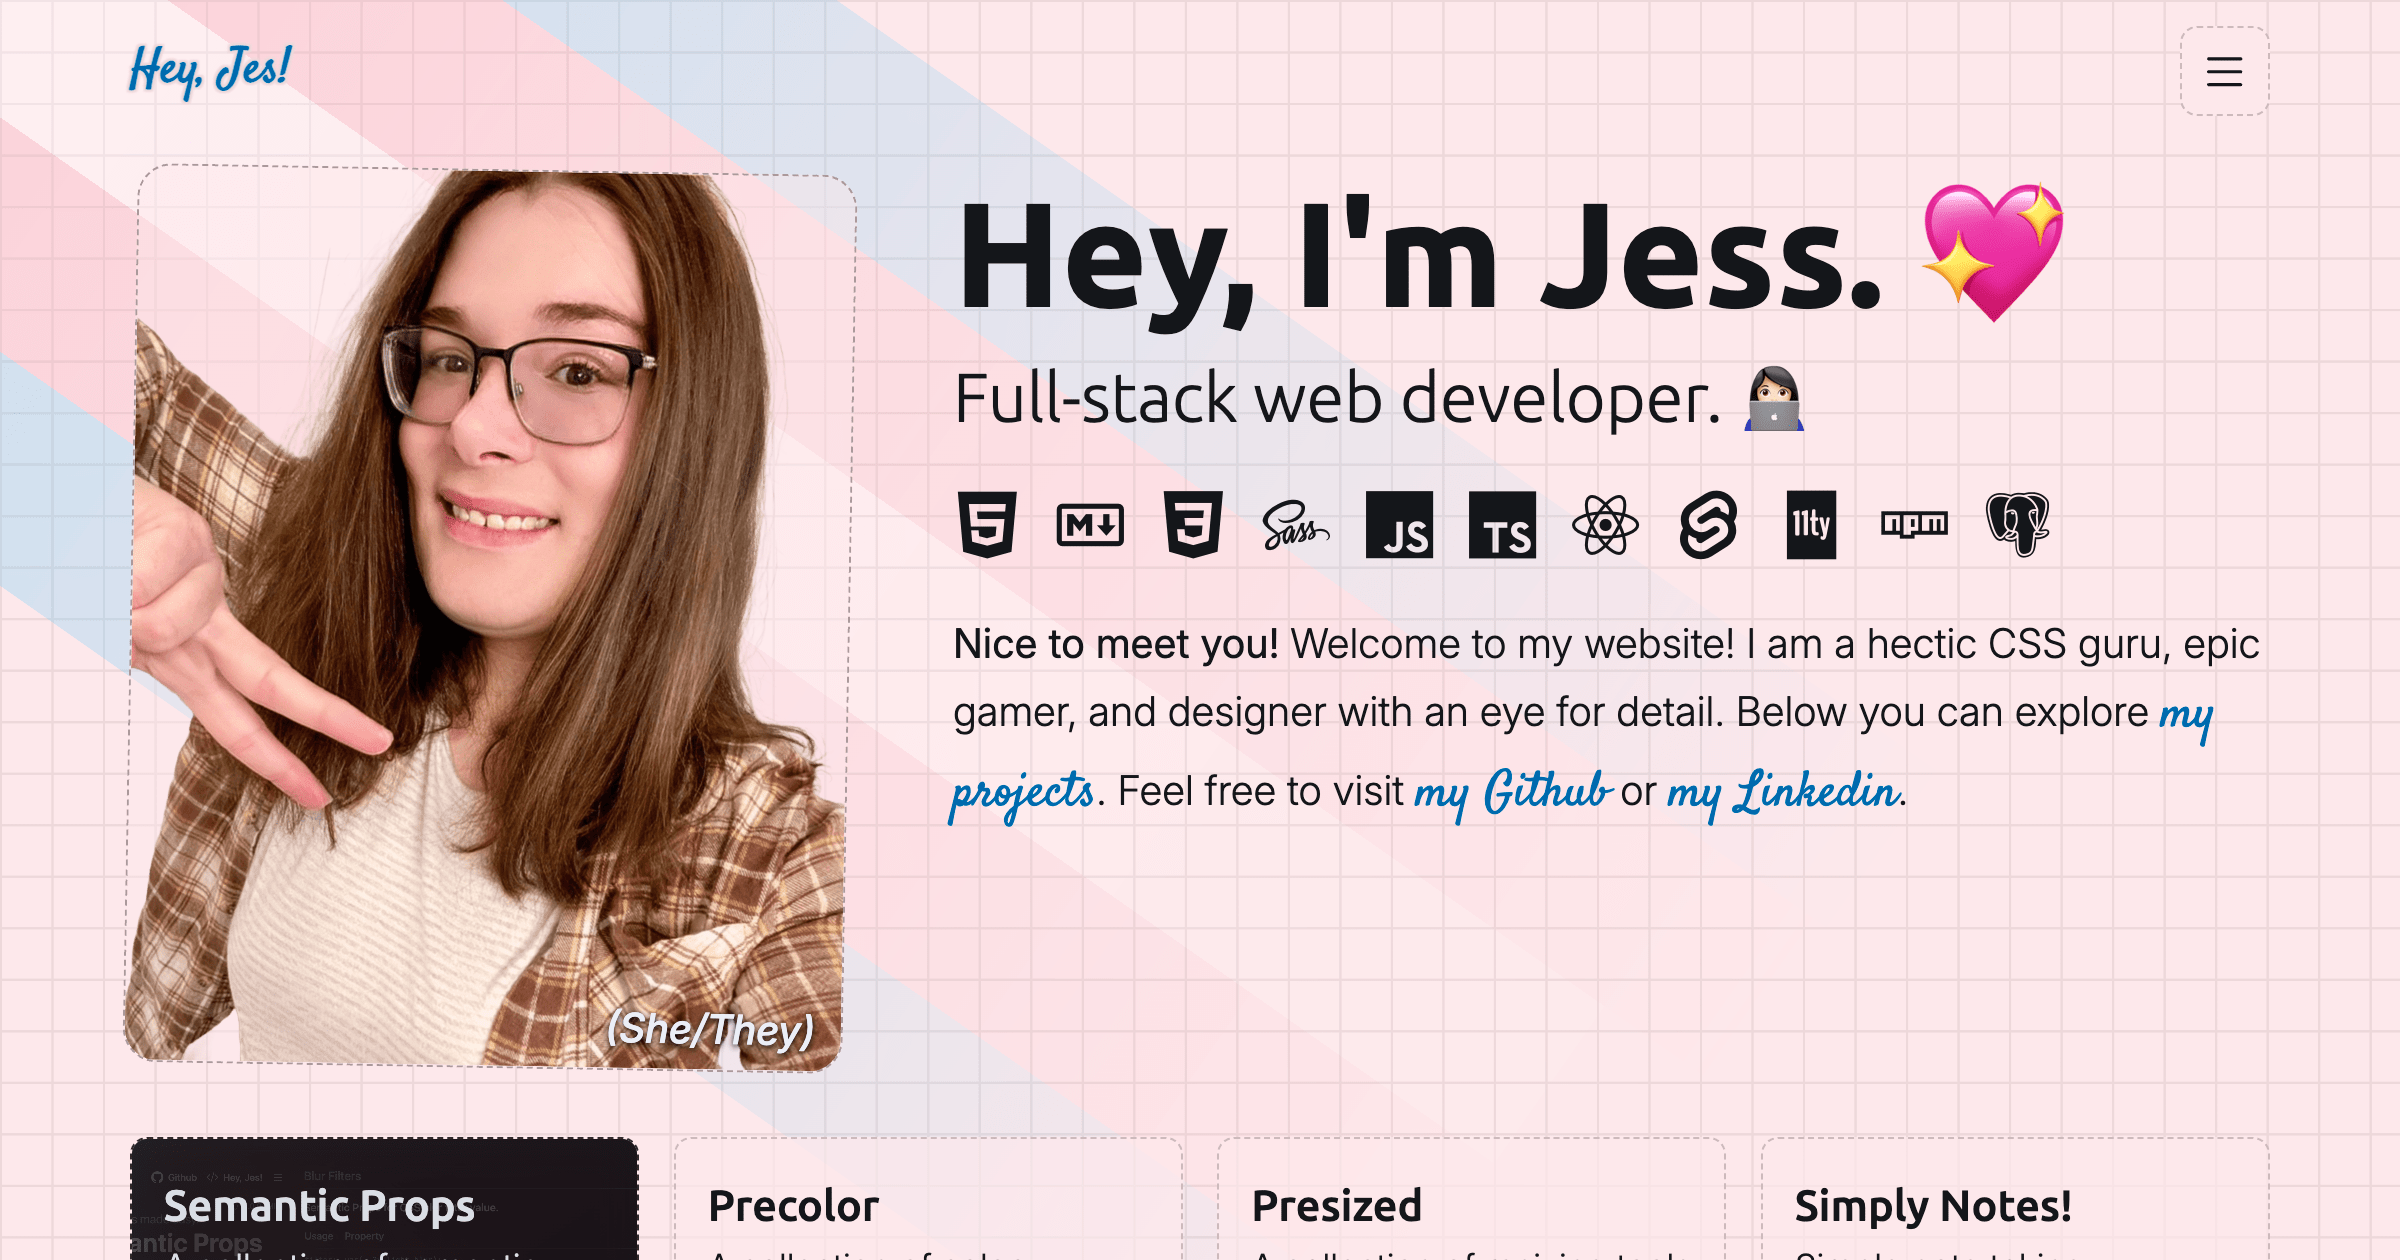
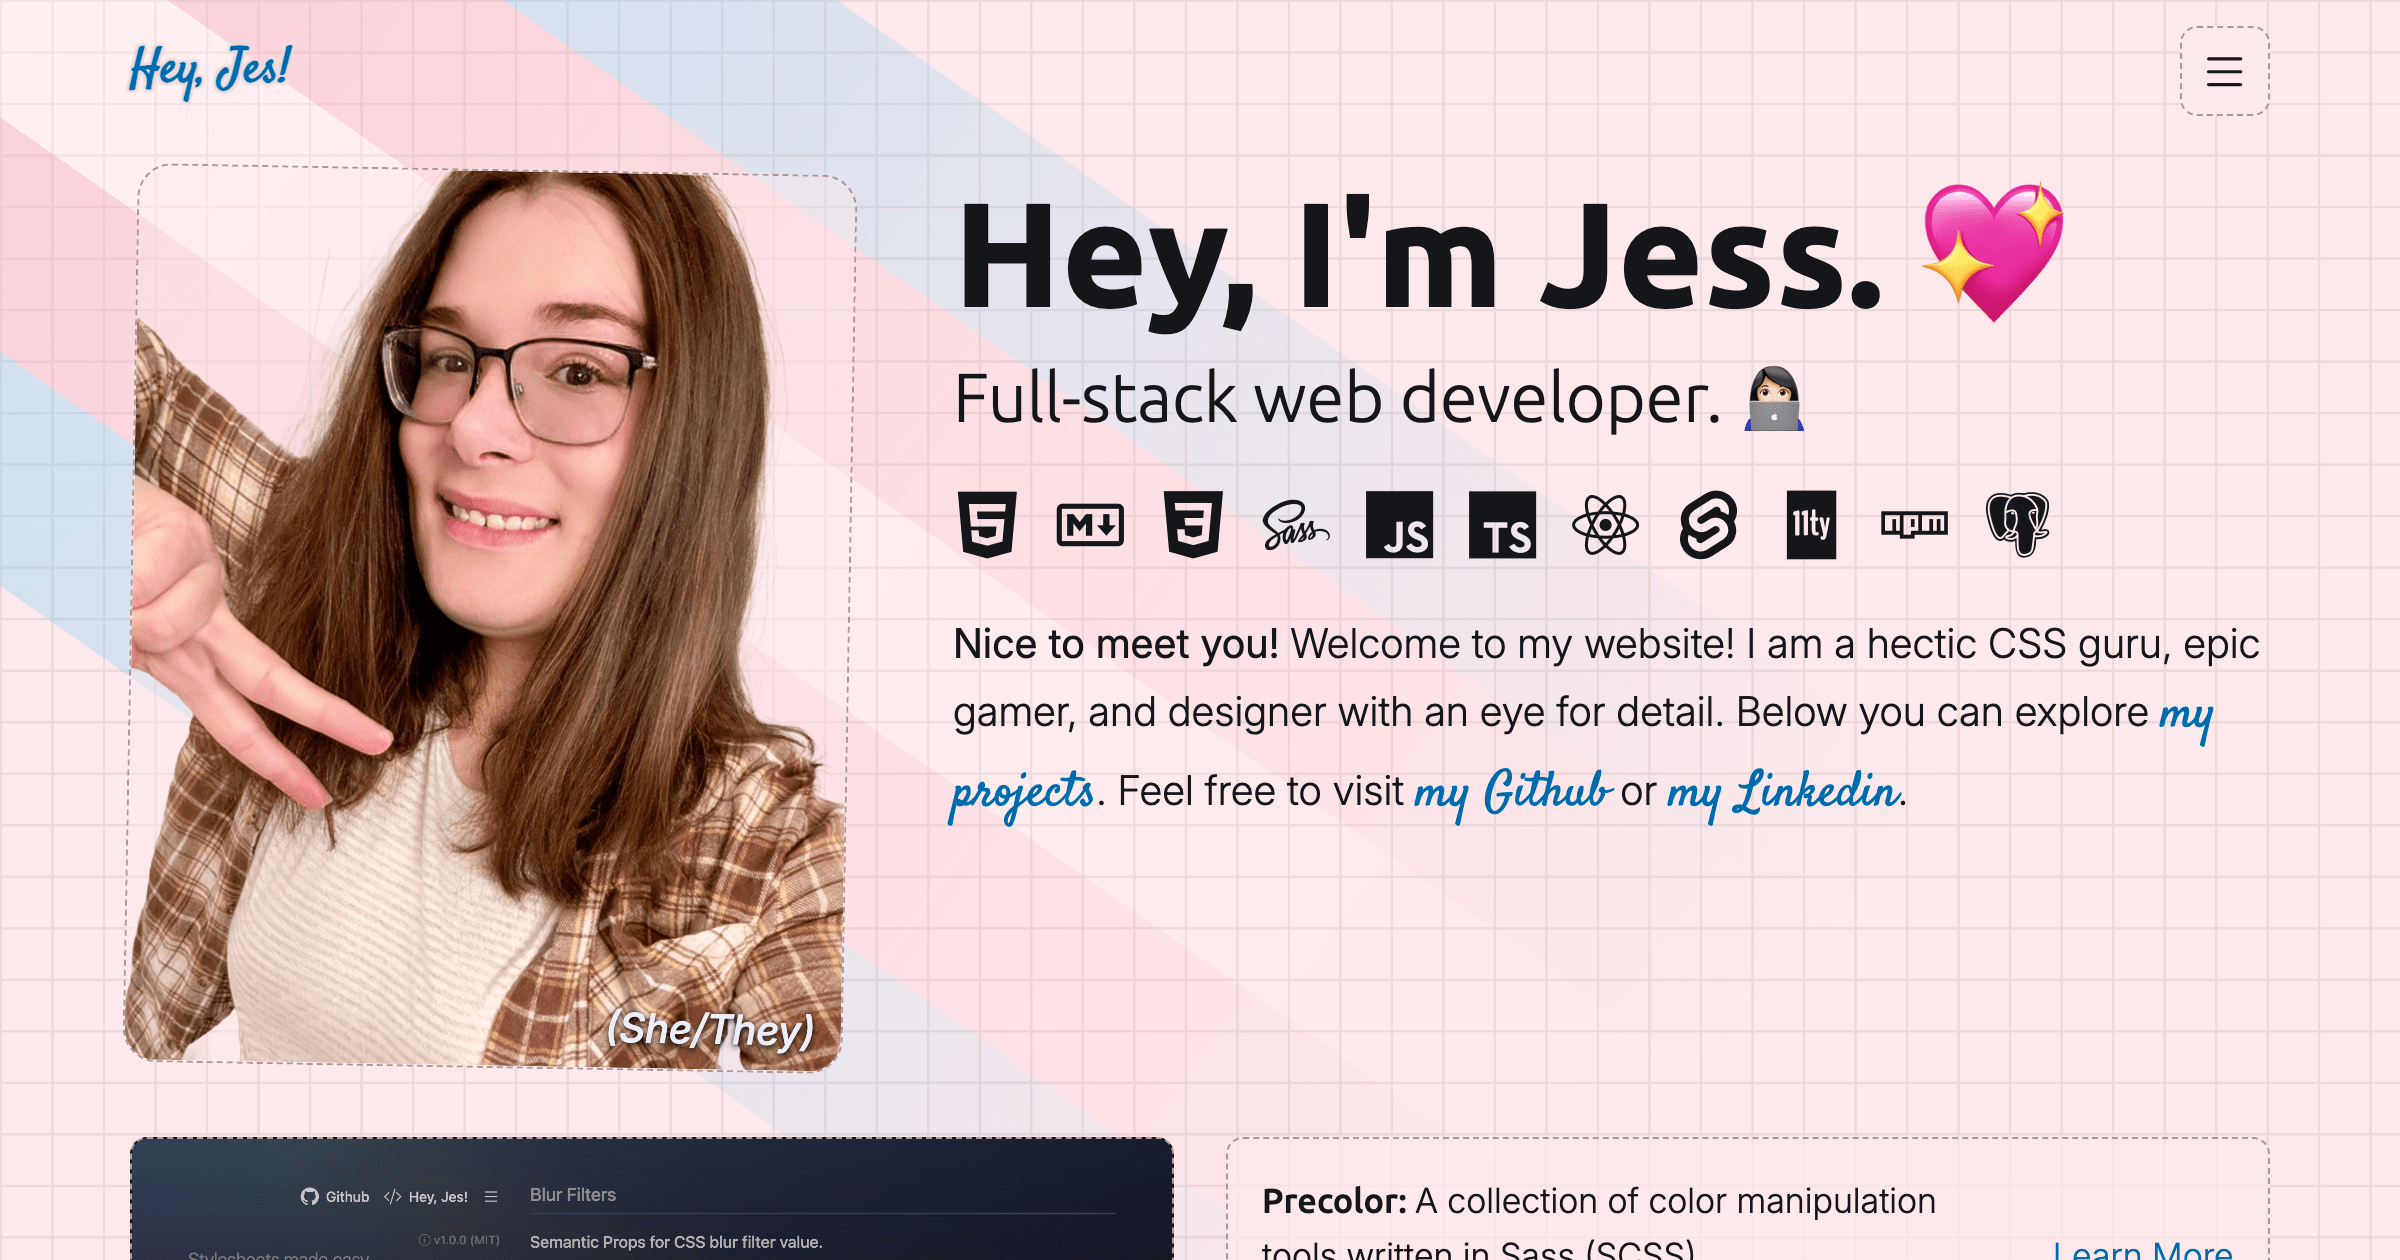
Changed design of project cards.

Changed region(s): [[0.0312, 0.8976, 0.9375, 1.0], [0.8125, 0.1548, 0.8438, 0.1857]]

diff --git a/src/components/Projects.module.css b/src/components/Projects.module.css
@@ -3,8 +3,8 @@
 .grid {
 	display: block;
 	column-count: 4;
-	column-width: var(--2x-small-container);
-	column-gap: var(--small-size);
+	column-width: var(--x-small-container);
+	column-gap: var(--medium-size);
 	column-fill: balance;
 	clear: both;
 	margin-block: var(--medium-size);
@@ -22,76 +22,54 @@
 .project {
 	position: relative;
 	display: flex;
-	flex-flow: column nowrap;
-	justify-content: end;
-	container-type: inline-size;
+	flex-flow: row wrap;
+	align-items: end;
 	border-radius: var(--2x-small-size);
-	border: 1px var(--border-style) var(--primary-200-600);
+	border: 1px var(--border-style) var(--primary-300-500);
 	background-color: var(--primary-50-800);
 	background-color: oklch(from var(--primary-50-800) l c h / var(--high-opacity));
+	padding: var(--small-size);
+	gap: var(--medium-size);
 	overflow: hidden;
 	&:has(.portal) {
-		border-color: var(--primary-700);
+		background-color: var(--primary-800);
 		color: var(--secondary-100);
-	}
-	& > :where(:not(.portal)) {
-		padding: var(--small-size);
 	}
 }
 
 .portal {
-	position: absolute;
-	z-index: 0;
-	inset: 0;
+	display: block;
+	margin: calc(var(--small-size) * -1);
 	img {
 		display: block;
-		width: 100%;
-		height: 100%;
+		inline-size: 100%;
+		aspect-ratio: var(--wide-ratio);
 		object-fit: cover;
 		object-position: top center;
-		filter: var(--low-brightness);
+		mask-image: linear-gradient(black, transparent);
+		mask-type: alpha;
 	}
-}
-
-.project:has(.portal) :is(.header, .link) {
-	position: relative;
-	z-index: 1;
-	&::before {
-		content: "";
-		position: absolute;
-		z-index: -1;
-		inset: 0;
-		outline: var(--small-size) solid var(--primary-800);
-		background-color: var(--primary-800);
-		opacity: var(--x-high-opacity);
-		filter: var(--heavy-blur);
-	}
-}
-
-.project:has(.portal) .header {
-	margin-block-end: var(--x-large-size);
 }
 
 .title, .description, .link {
-	display: block;
+	position: relative;
+	z-index: 1;
+	display: inline-block;
+	flex: 1 1 0;
 	margin: 0;
 }
 
 .title {
 	font-family: var(--display-font);
-	font-size: var(--3x-large-font);
 	font-weight: var(--regular-font);
 }
 
 .link {
-	text-align: end;
-	border-block-start: inherit;
-	padding-inline-end: var(--medium-size);
-	margin-block-start: auto;
+	flex: 0 0 auto;
 	.project:has(.portal) & :any-link {
-		color: var(--accent-300);
+		color: var(--secondary-200);
 		&:active {
-			text-decoration-color: var(--accent-500);
+			text-decoration-color: var(--secondary-300);
 		}
 	}
 }

diff --git a/src/components/Header.module.css b/src/components/Header.module.css
@@ -37,7 +37,7 @@
 	appearance: none;
 	font-size: var(--medium-size);
 	font-weight: var(--regular-font);
-	border: 1px var(--border-style) var(--primary-200-600);
+	border: 1px var(--border-style) var(--primary-300-500);
 	border-radius: var(--2x-small-size);
 	background-image: none;
 	background-color: var(--primary-50-700);
@@ -66,7 +66,7 @@
 	transition-property: transform, opacity;
 	overflow: auto;
 	margin-inline-start: auto;
-	filter: var(--3x-light-shadow);
+	filter: var(--2x-light-shadow);
 	&:not(:focus-within) {
 		pointer-events: none;
 		transform: translateY(calc(var(--2x-small-size) * -1));
@@ -78,7 +78,7 @@
 	display: block;
 	padding-block: var(--x-small-size);
 	padding-inline: var(--small-size);
-	border-block-end: 1px var(--border-style) var(--primary-200-600);
+	border-block-end: 1px var(--border-style) var(--primary-300-500);
 	line-height: var(--line-short);
 	text-decoration: none;
 	color: inherit;
@@ -88,18 +88,17 @@
 	}
 	&:hover, &:focus {
 		transition-duration: 0ms;
-		background-color: var(--primary-100-600);
 	}
-	&:active {
-		background-color: var(--primary-200-500);
+	&:hover, &:focus, &:active {
+		background-color: var(--primary-100-600);
 	}
 }
 
 .backdrop {
 	position: fixed;
 	inset: 0;
-	background-color: oklch(0 0 0 / var(--2x-low-opacity));
-	background-color: oklch(from var(--primary-500-900) l c h / var(--2x-low-opacity));
+	background-color: oklch(0 0 0 / var(--low-opacity));
+	background-color: oklch(from var(--primary-600-900) l c h / var(--low-opacity));
 	backdrop-filter: var(--2x-light-blur);
 	transition: opacity var(--fast-time) var(--ease-out);
 	cursor: pointer;

diff --git a/src/components/Projects.tsx b/src/components/Projects.tsx
@@ -17,15 +17,15 @@ export default function Projects() {
 			{projects.map(({ title, image, description, url }: projects, index) => (
 				<div className={styles.item} key={index}>
 					<article className={styles.project}>
-						<header className={styles.header}>
-							<h2 className={styles.title}>{title}</h2>
-							<p className={styles.description}>{description}</p>
-						</header>
 						{typeof image === "string" && (
 							<a className={styles.portal} href={url} tabIndex={-1}>
 								<img src={image} loading="lazy" alt="" />
 							</a>
 						)}
+						<p className={styles.description}>
+							<span className={styles.title}>{title}:&nbsp;</span>
+							{description}
+						</p>
 						<span className={styles.link}>
 							<Link to={url} content="Learn More" />
 						</span>
